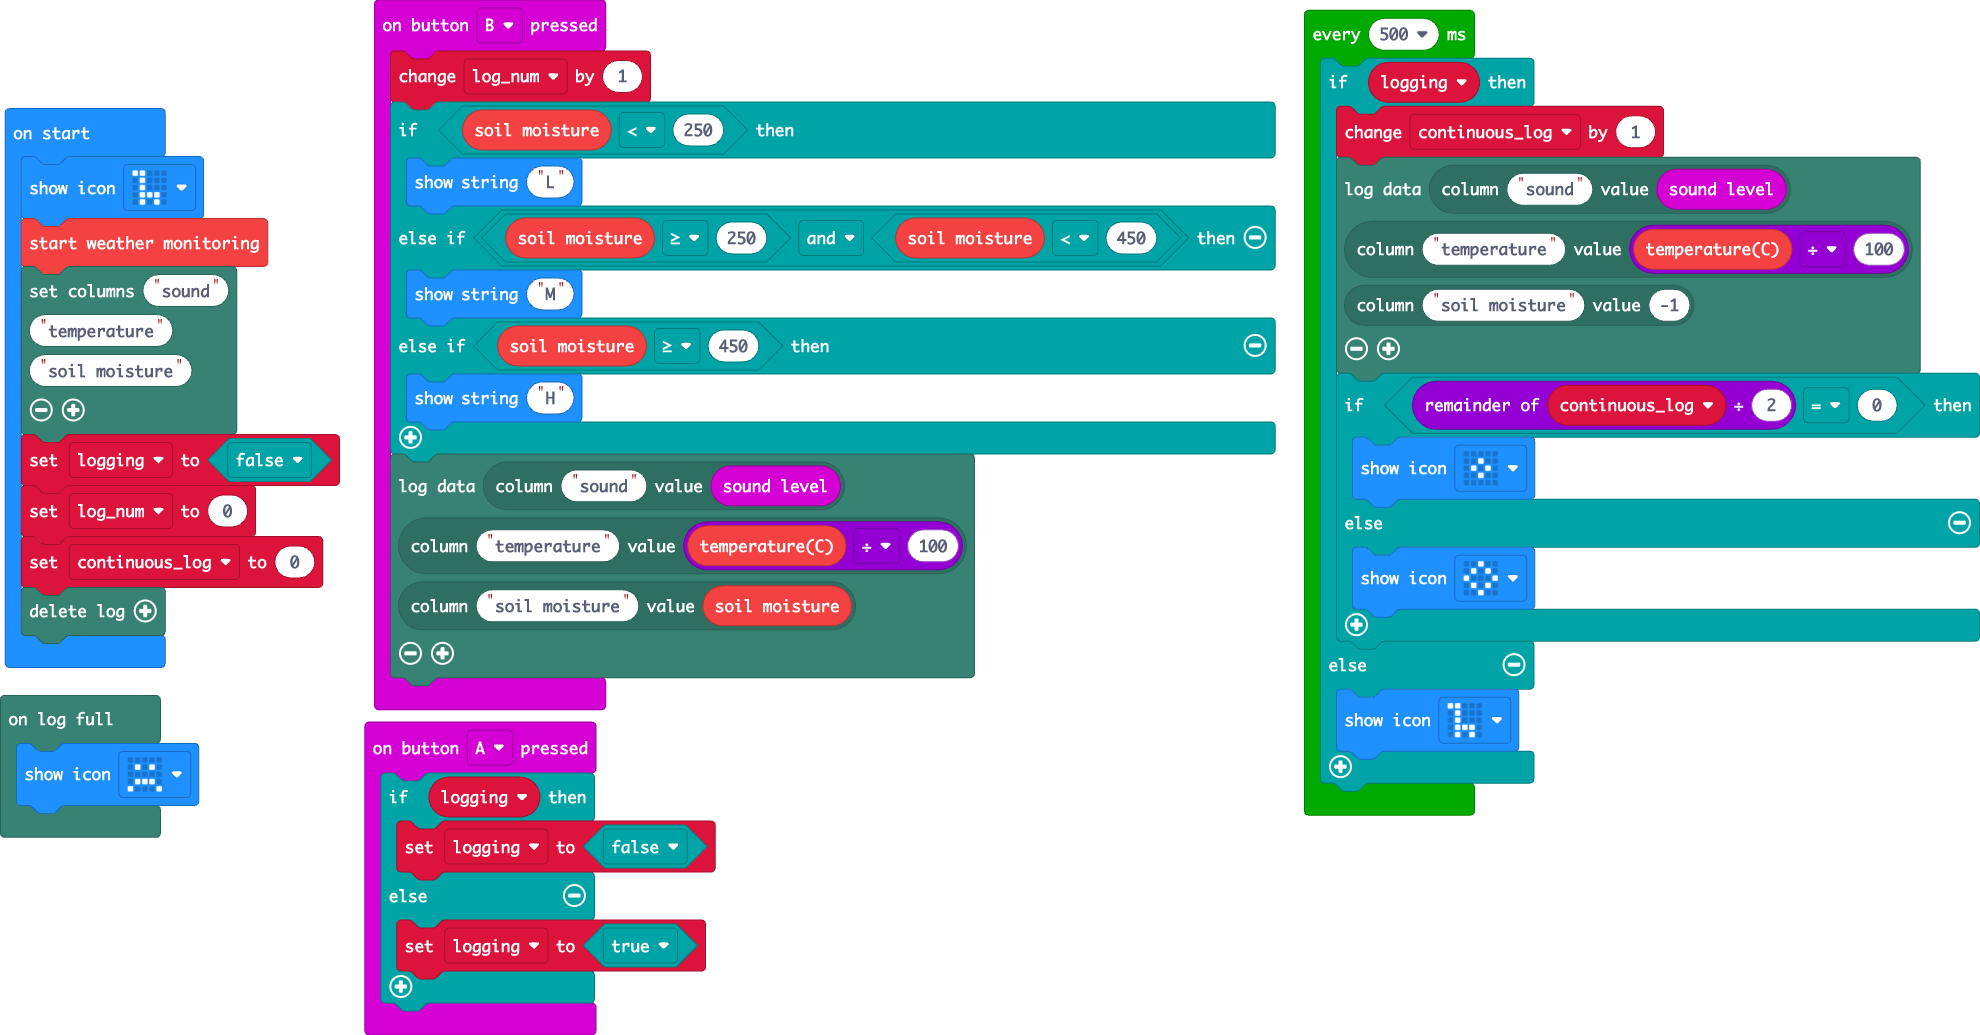
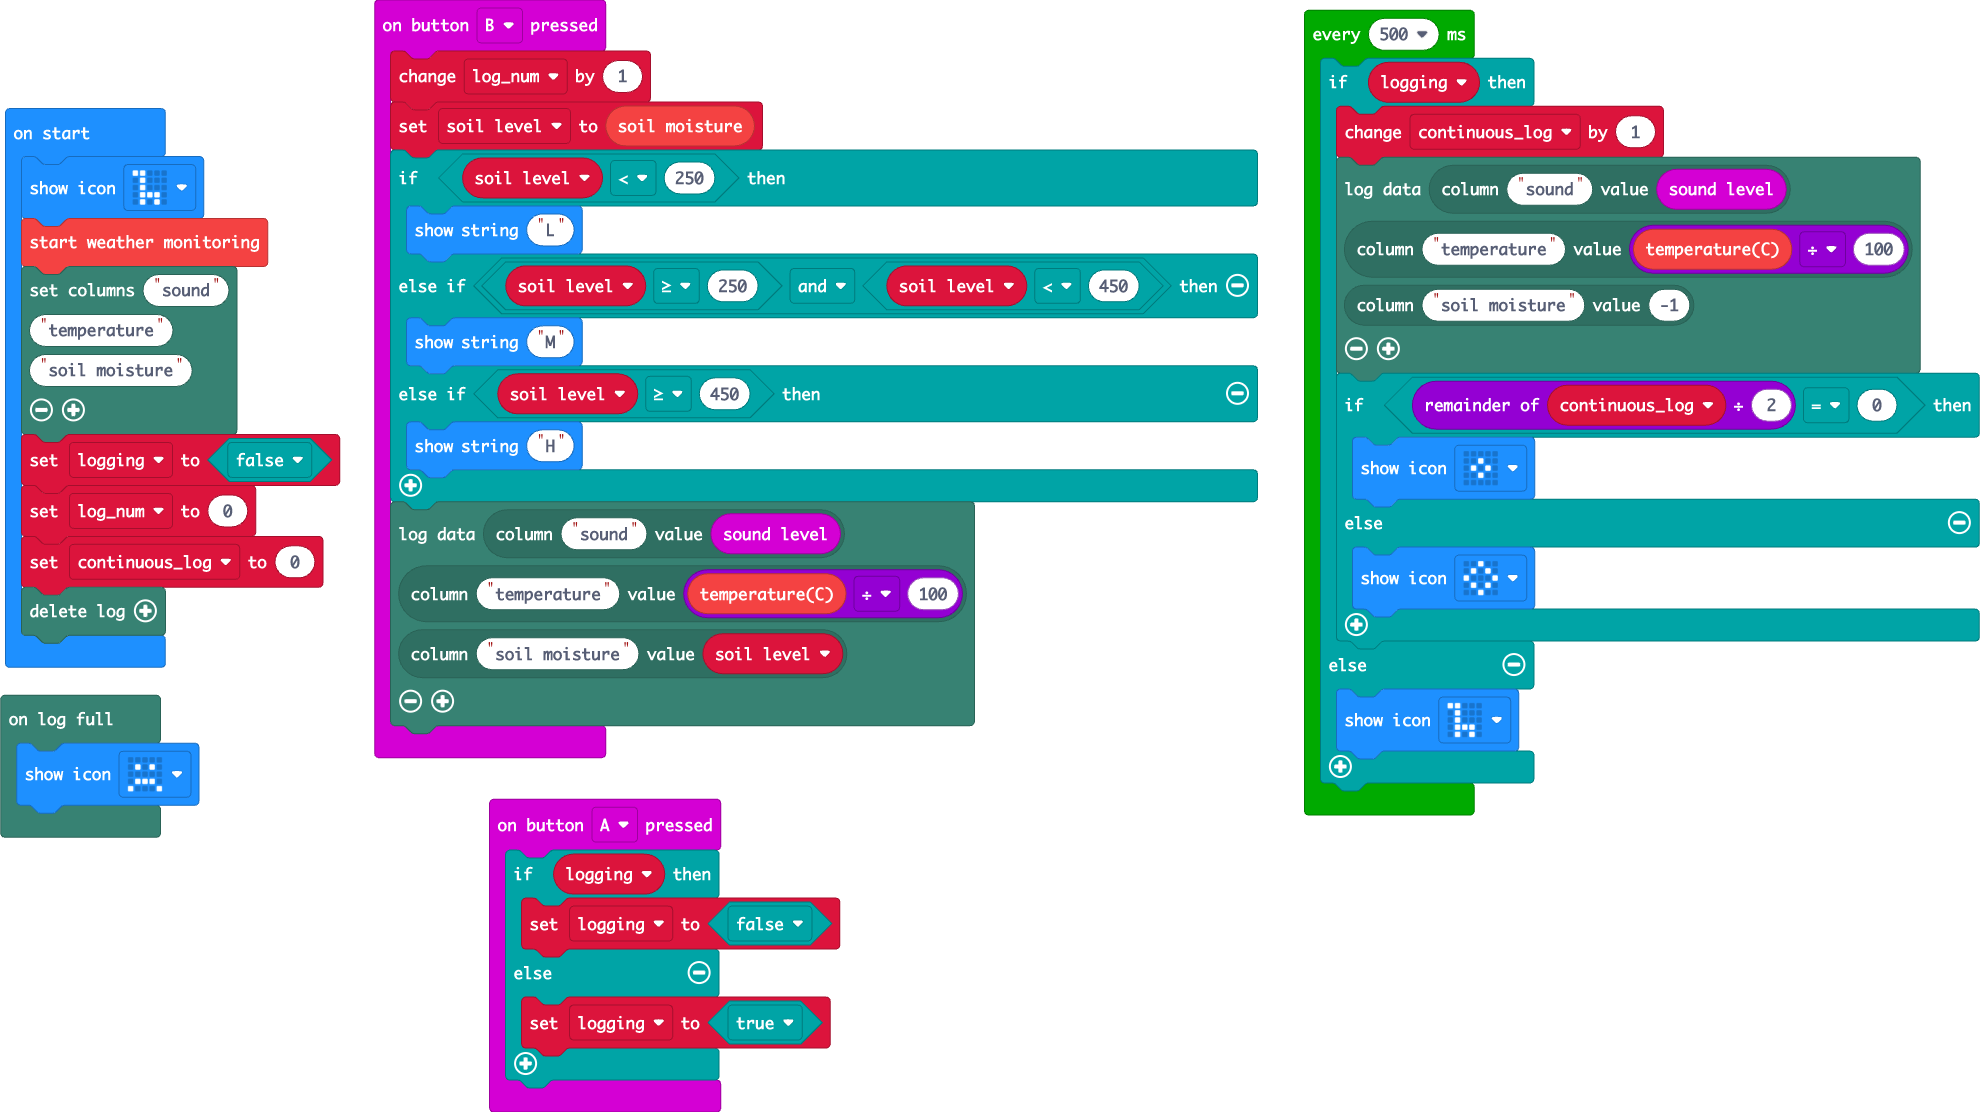
Update main.blocks, main.ts

diff --git a/main.ts b/main.ts
@@ -10,19 +10,21 @@ input.onButtonPressed(Button.A, function () {
 })
 input.onButtonPressed(Button.B, function () {
     log_num += 1
-    if (weatherbit.soilMoisture() < 250) {
+    soil_level = weatherbit.soilMoisture()
+    if (soil_level < 250) {
         basic.showString("L")
-    } else if (weatherbit.soilMoisture() >= 250 && weatherbit.soilMoisture() < 450) {
+    } else if (soil_level >= 250 && soil_level < 450) {
         basic.showString("M")
-    } else if (weatherbit.soilMoisture() >= 450) {
+    } else if (soil_level >= 450) {
         basic.showString("H")
     }
     datalogger.log(
     datalogger.createCV("sound", input.soundLevel()),
     datalogger.createCV("temperature", weatherbit.temperature() / 100),
-    datalogger.createCV("soil moisture", weatherbit.soilMoisture())
+    datalogger.createCV("soil moisture", soil_level)
     )
 })
+let soil_level = 0
 let logging = false
 basic.showIcon(IconNames.Giraffe)
 weatherbit.startWeatherMonitoring()
